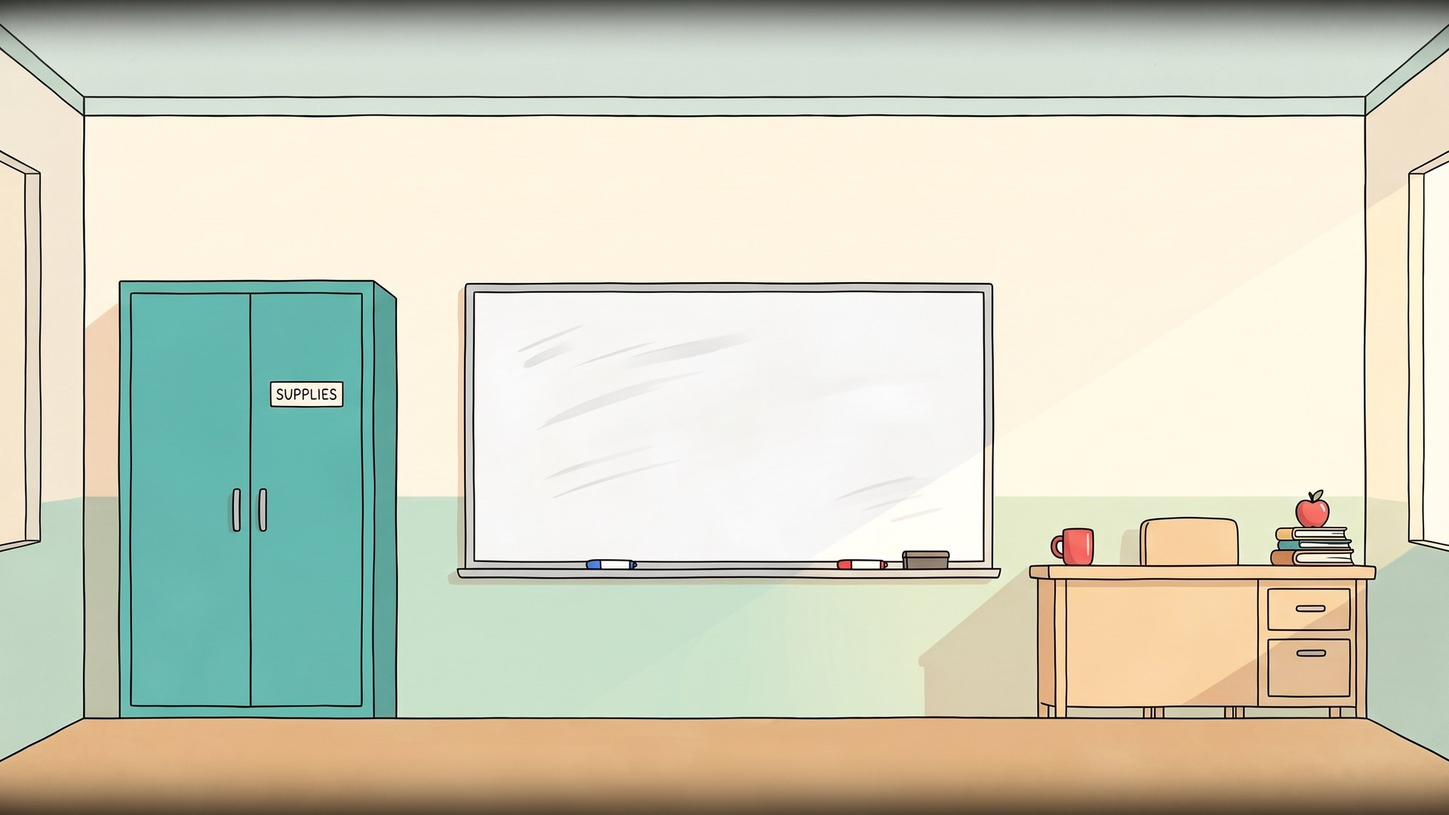
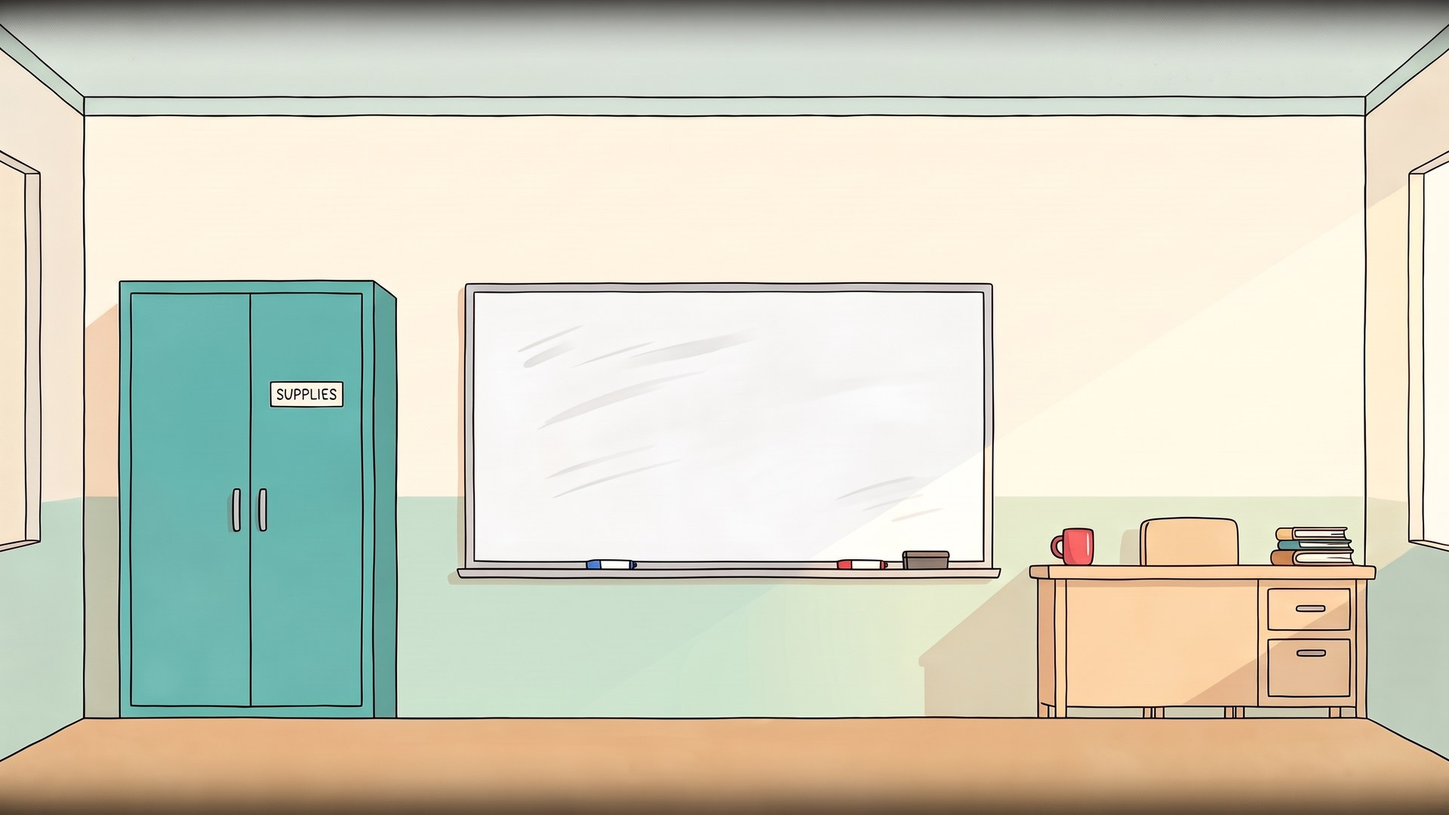
Classroom test: real cut-out animation and a composed tune
Moving things are now cut-outs on canvas layers over walls they have
been removed from: plants bend at the tip, the coat swings from its peg
with a lagging hem, the envelope lifts, Nutmeg squashes and hops, the
bag and apple rock, the lost property pops. The wall-patch shaking is
gone. The music is a composed sixteen-bar music-box waltz with melody,
chords and bass through a soft reverb, looped, with a TRACK slot for a
recorded piece. Notes updated.

Claude-Session: https://claude.ai/code/session_01EfdGHqbt9UMLzVmVXYp5s9

Changed region(s): [[0.875, 0.6111, 0.9375, 0.7028]]

diff --git a/next/landscape/index.html b/next/landscape/index.html
@@ -85,33 +85,8 @@ button{font:inherit;color:inherit;cursor:pointer}
 .back{position:absolute;right:calc(var(--u)*1.4);top:calc(var(--u)*1.2);width:calc(var(--u)*6);height:calc(var(--u)*6);border-radius:50%;border:0;background:rgba(20,26,40,.85);color:#fffaf0;display:grid;place-items:center;font-size:calc(var(--u)*3);z-index:2}
 .back:focus-visible{outline:calc(var(--u)*.4) solid var(--accent)}
 
-/* micro-animations: a patch of the wall picture is lifted and moved for a moment */
-.sprite{position:absolute;pointer-events:none;background-repeat:no-repeat;will-change:transform}
-.layer{position:absolute;pointer-events:none;display:block;will-change:transform}
-/* Tap feedback plays everywhere; on a reduce-motion device it is shorter and gentler rather than absent. */
-.sprite.sway,.layer.sway{transform-origin:50% 100%;animation:sway 1.8s ease-in-out}
-.sprite.swing{transform-origin:50% 0%;animation:swing 2s ease-in-out}
-.sprite.lift{animation:lift .9s ease-out}
-.sprite.hop{animation:hop .8s ease-out}
-.sprite.jiggle{animation:jiggle .7s ease-in-out}
-.sprite.rattle{animation:rattle .6s ease-in-out}
-.sprite.flutter{transform-origin:50% 0%;animation:flutter 1.3s ease-in-out}
-.sprite.bob{animation:bob 1s ease-in-out}
-@media (prefers-reduced-motion:reduce){
-  .sprite,.layer{animation-duration:.5s!important;animation-iteration-count:1!important}
-  .sprite.sway,.layer.sway{animation-name:sway-soft}
-  .sprite.swing{animation-name:swing-soft}
-  @keyframes sway-soft{0%,100%{transform:skewX(0)}50%{transform:skewX(-4deg)}}
-  @keyframes swing-soft{0%,100%{transform:rotate(0)}50%{transform:rotate(4deg)}}
-}
-@keyframes sway{0%,100%{transform:skewX(0)}20%{transform:skewX(-10deg)}50%{transform:skewX(8deg)}75%{transform:skewX(-4deg)}}
-@keyframes swing{0%,100%{transform:rotate(0)}20%{transform:rotate(12deg)}50%{transform:rotate(-9deg)}75%{transform:rotate(4deg)}}
-@keyframes lift{0%,100%{transform:translateY(0) rotate(0)}40%{transform:translateY(-25%) rotate(-6deg) scale(1.08)}}
-@keyframes hop{0%,100%{transform:translateY(0)}30%{transform:translateY(-30%)}55%{transform:translateY(0)}75%{transform:translateY(-12%)}}
-@keyframes jiggle{0%,100%{transform:rotate(0)}20%{transform:rotate(-14deg)}45%{transform:rotate(12deg)}70%{transform:rotate(-6deg)}}
-@keyframes rattle{0%,100%{transform:translateX(0)}20%{transform:translateX(-4%)}40%{transform:translateX(4%)}60%{transform:translateX(-2.5%)}80%{transform:translateX(2.5%)}}
-@keyframes flutter{0%,100%{transform:rotateX(0)}30%{transform:perspective(500px) rotateX(35deg)}65%{transform:perspective(500px) rotateX(-15deg)}}
-@keyframes bob{0%,100%{transform:translateY(0)}30%{transform:translateY(-18%)}60%{transform:translateY(4%)}}
+/* moving things are cut-outs on their own canvas layer, bent and swung in slices by script */
+.layer{position:absolute;pointer-events:none;display:block}
 .slot img{width:100%;height:100%;object-fit:contain;display:block}
 
 /* the inventory strip */
@@ -185,7 +160,7 @@ button{font:inherit;color:inherit;cursor:pointer}
 
 <script>
 'use strict';
-const BUILD = '2026-09-28f';
+const BUILD = '2026-09-28g';
 const $ = id => document.getElementById(id);
 
 /* ---------- sizing: the scene fills the screen in landscape, inventory strip under it ---------- */
@@ -200,57 +175,128 @@ addEventListener('resize', fit); fit();
 const VIEWS = ['c1','c2','c3','c4'];
 const HOTS = {
   c1:[
-    {id:'cupboard', l:8, t:34, w:19.5, h:54, label:'Supplies cupboard', anim:'rattle', patch:[8,33.5,19.5,55], sound:'knock'},
+    {id:'cupboard', l:8, t:34, w:20, h:54, label:'Supplies cupboard', sound:'knock'},
     {id:'board', l:32, t:34, w:37, h:37, label:'Whiteboard', sound:'tap'},
-    {id:'tdesk', l:71, t:62, w:24, h:27, label:"Mr Hollis's desk", anim:'jiggle', patch:[72,64.5,5,8], sound:'tap'}],
+    {id:'apple', l:87.5, t:57.5, w:6.5, h:8.5, label:'Apple on the books', anim:'wobble', layer:'apple', sound:'tap'},
+    {id:'tdesk', l:71, t:62, w:24, h:27, label:"Mr Hollis's desk", sound:'tap'}],
   c2:[
     {id:'window', l:30, t:17, w:40, h:31, label:'Classroom window', sound:'tap'},
-    {id:'beans', l:33, t:30, w:35, h:37, label:'Bean plants on the window sill', anim:'sway', layer:'plant', sound:'leaf'},
-    {id:'radiator', l:36, t:71, w:28, h:19, label:'Radiator', anim:'rattle', patch:[35.5,70.5,29,21], sound:'knock'}],
+    {id:'beans', l:33, t:30, w:35, h:37, label:'Bean plants on the window sill', anim:'bend', layer:'plant', sound:'leaf'},
+    {id:'radiator', l:36, t:71, w:28, h:19, label:'Radiator', sound:'knock'}],
   c3:[
-    {id:'bin', l:27, t:70, w:11, h:22, label:'Recycling bin', anim:'bob', patch:[27.5,69.5,10,8.5], sound:'knock'},
-    {id:'door', l:40, t:26, w:21, h:66, label:'Door to the corridor', anim:'jiggle', patch:[55,61,4,10], sound:'knock'},
-    {id:'pegs', l:62, t:46, w:28, h:27, label:'Coat pegs', anim:'swing', patch:[62.5,48,12,32], sound:'leaf'},
-    {id:'lost', l:75, t:74, w:15, h:18, label:'Lost property box', anim:'jiggle', patch:[75.5,73.5,14,19], sound:'paper'}],
+    {id:'bin', l:27.5, t:70, w:10, h:22, label:'Recycling bin', sound:'knock'},
+    {id:'door', l:40, t:26.5, w:20.5, h:66, label:'Door to the corridor', sound:'knock'},
+    {id:'pegs', l:61, t:46, w:29, h:36, label:'Coat pegs', anim:'swing', layer:'coat', sound:'leaf'},
+    {id:'lost', l:75, t:73, w:15, h:19, label:'Lost property box', anim:'pop', layer:'lost', sound:'paper'}],
   c4:[
-    {id:'rules', l:26, t:30, w:9, h:18, label:'Class rules', anim:'flutter', patch:[26,30,9,18], sound:'paper'},
-    {id:'timetable', l:38, t:25, w:24, h:30, label:'Class timetable', anim:'flutter', patch:[38,25,24,30], sound:'paper'},
-    {id:'clock', l:66.5, t:23.5, w:9.5, h:16, label:'Clock', anim:'jiggle', patch:[66.5,23.5,9.5,16], sound:'tick'},
-    {id:'bookshelf', l:20.5, t:59, w:18, h:30, label:'Bookshelf', anim:'rattle', patch:[21.5,60.5,15,12], sound:'knock'},
-    {id:'desk', l:41, t:62, w:18, h:32, label:"Mary's desk", sound:'tap'},
-    {id:'envelope', l:48.5, t:62, w:8.5, h:9.5, label:"Envelope on Mary's desk", key:true, anim:'lift', patch:[48.5,62.5,8.5,9], sound:'paper'},
-    {id:'bag', l:55.5, t:77, w:7.5, h:16, label:"Mary's schoolbag", anim:'jiggle', patch:[55,76.5,8,17], sound:'tap'},
-    {id:'hamster', l:66.5, t:52, w:11.5, h:11.5, label:'Nutmeg the hamster', anim:'hop', patch:[66.5,52,11.5,11.5], sound:'squeak'},
-    {id:'cabinet', l:66, t:64, w:12.5, h:25, label:'Filing cabinet', anim:'rattle', patch:[65.5,63.5,13,26], sound:'knock'}]
+    {id:'rules', l:26, t:30, w:8.5, h:18, label:'Class rules', sound:'paper'},
+    {id:'timetable', l:38.5, t:25, w:23, h:30, label:'Class timetable', sound:'paper'},
+    {id:'clock', l:67, t:23, w:8.5, h:16, label:'Clock', sound:'tick'},
+    {id:'bookshelf', l:21, t:59, w:17.5, h:29, label:'Bookshelf', sound:'knock'},
+    {id:'desk', l:41, t:61, w:18, h:33, label:"Mary's desk", sound:'tap'},
+    {id:'envelope', l:50, t:65, w:8, h:8.5, label:"Envelope on Mary's desk", key:true, anim:'lift', layer:'envelope', sound:'paper'},
+    {id:'bag', l:55.5, t:77, w:9, h:17, label:"Mary's schoolbag", anim:'wobble', layer:'backpack', sound:'tap'},
+    {id:'hamster', l:67, t:51.5, w:11, h:11, label:'Nutmeg the hamster', anim:'hop', layer:'hamster', sound:'squeak'},
+    {id:'cabinet', l:66, t:62.5, w:13, h:27, label:'Filing cabinet', sound:'knock'}]
 };
-/* Cut-out layers drawn over a wall: things that must move against a busy background (the plants against the window). */
+/* Cut-out layers drawn over each wall: the wall pictures have these things removed, so the cut-out is the only copy.
+   l,t,w,h are the cut-out's box in picture percentages; clipBottom hides anything below that line (things inside a box). */
 const LAYERS = {
+  c1:[{src:'../art/classroom/layer-apple.png', group:'apple', l:89.7, t:59.5, w:2.6, h:5.5}],
   c2:[
     {src:'../art/classroom/layer-plant1.png', group:'plant', l:34.4, t:54.0, w:5.6, h:12.5},
     {src:'../art/classroom/layer-plant2.png', group:'plant', l:42.4, t:49.5, w:5.5, h:17.0},
     {src:'../art/classroom/layer-plant3.png', group:'plant', l:51.0, t:36.1, w:6.8, h:30.4},
-    {src:'../art/classroom/layer-plant4.png', group:'plant', l:59.3, t:31.5, w:7.7, h:35.0}]
+    {src:'../art/classroom/layer-plant4.png', group:'plant', l:59.3, t:31.5, w:7.7, h:35.0}],
+  c3:[
+    {src:'../art/classroom/layer-coat.png', group:'coat', l:61.2, t:49.5, w:10.6, h:32},
+    {src:'../art/classroom/layer-lost.png', group:'lost', l:77.5, t:74.5, w:10, h:8.9, clipBottom:81}],
+  c4:[
+    {src:'../art/classroom/layer-envelope.png', group:'envelope', l:50.5, t:66.5, w:6.5, h:5.5, hideWhen:() => S.got.includes('envelope')},
+    {src:'../art/classroom/layer-hamster.png', group:'hamster', l:67.8, t:53.8, w:5.2, h:7.7},
+    {src:'../art/classroom/layer-backpack.png', group:'backpack', l:56.5, t:78, w:7, h:15.3}]
 };
-/* Lift a patch of the current wall and play it: the same picture, cropped and moved, so the room never changes underneath. */
-function animate(h){
-  if (!h.anim) return;
-  if (h.layer){
-    document.querySelectorAll(`.layer[data-group="${h.layer}"]`).forEach((el, i) => {
-      el.classList.remove(h.anim); void el.offsetWidth;
-      el.style.animationDelay = (i * 110) + 'ms'; el.classList.add(h.anim);
-      el.addEventListener('animationend', () => el.classList.remove(h.anim), {once:true});
-    });
-    return;
+
+/* ---------- the animator: each layer is a canvas; a tap starts a short, damped, organic movement ----------
+   bend: base fixed, tip moves most (plants). swing: hangs from the top, hem lags (a coat). lift: rises and settles (paper).
+   hop: squash, jump, land (a hamster). wobble: rocks on its base (a bag, an apple). pop: jumps up twice (things in a box). */
+const PAD_X = 0.45, PAD_Y = 0.7;               /* room around the cut-out for movement, as a share of its size */
+const layerState = new Map();                   /* canvas -> {img, L, anim, t0} */
+let animFrame = null;
+function makeLayer(L){
+  const c = document.createElement('canvas'); c.className = 'layer';
+  c.style.cssText = `left:${L.l - L.w*PAD_X}%;top:${L.t - L.h*PAD_Y}%;width:${L.w*(1+2*PAD_X)}%;height:${L.h*(1+PAD_Y+0.15)}%`;
+  c.dataset.group = L.group;
+  const img = new Image(); img.src = L.src;
+  const st = {img, L, anim:null, t0:0}; layerState.set(c, st);
+  img.onload = () => { c.width = Math.round(img.naturalWidth*(1+2*PAD_X)); c.height = Math.round(img.naturalHeight*(1+PAD_Y+0.15)); drawLayer(c, 0); };
+  if (img.complete && img.naturalWidth) img.onload();
+  return c;
+}
+function drawLayer(c, t){
+  const st = layerState.get(c); if (!st || !st.img.naturalWidth) return;
+  const {img, L, anim} = st, ctx = c.getContext('2d'), W = img.naturalWidth, H = img.naturalHeight, ox = W*PAD_X, oy = H*PAD_Y;
+  ctx.clearRect(0, 0, c.width, c.height);
+  ctx.save();
+  if (L.clipBottom != null){ const yClip = (L.clipBottom - (L.t - L.h*PAD_Y)) / (L.h*(1+PAD_Y+0.15)) * c.height; ctx.beginPath(); ctx.rect(0, 0, c.width, yClip); ctx.clip(); }
+  const damp = (f, tau) => Math.sin(2*Math.PI*f*t) * Math.exp(-t/tau);
+  if (!anim){ ctx.drawImage(img, ox, oy); ctx.restore(); return; }
+  const N = 40;
+  switch(anim){
+    case 'bend': { /* a plant: displacement grows with the square of the distance from the base, so the tip whips and the stem barely moves */
+      const A = W*0.32*damp(1.1, 0.75), lag = W*0.10*Math.sin(2*Math.PI*1.1*t - 1.2)*Math.exp(-t/0.75);
+      for (let i = 0; i < N; i++){ const y0 = i*H/N, u = 1 - (y0 + H/N/2)/H; const dx = A*u*u + lag*u*u*u; ctx.drawImage(img, 0, y0, W, H/N+1, ox+dx, oy+y0, W, H/N+1); }
+      break; }
+    case 'swing': { /* a coat on a peg: the whole thing pivots at the hook, and the hem trails a little behind */
+      const ang = 0.16*damp(0.75, 1.1), trail = 0.05*Math.sin(2*Math.PI*0.75*t - 1.0)*Math.exp(-t/1.1);
+      for (let i = 0; i < N; i++){ const y0 = i*H/N, v = (y0 + H/N/2)/H; const dx = Math.sin(ang)*y0 + Math.sin(trail)*y0*v; const sy = Math.cos(ang); ctx.drawImage(img, 0, y0, W, H/N+1, ox+dx, oy+y0*sy, W, H/N+1); }
+      break; }
+    case 'lift': { /* paper picked up a little and set down: rises with a tilt, settles */
+      const T = 0.9; if (t > T) { st.anim = null; ctx.drawImage(img, ox, oy); break; }
+      const k = Math.sin(Math.PI*t/T); const dy = -H*0.7*k, rot = -0.12*k;
+      ctx.translate(ox + W/2, oy + H + dy); ctx.rotate(rot); ctx.drawImage(img, -W/2, -H);
+      break; }
+    case 'hop': { /* squash, jump, land, once more smaller */
+      const hop = (t, T, h) => { if (t < 0 || t > T) return {dy:0, sx:1, sy:1};
+        if (t < T*0.18){ const k = t/(T*0.18); return {dy:0, sx:1+0.12*k, sy:1-0.16*k}; }
+        const u = (t - T*0.18)/(T*0.82); const arc = Math.sin(Math.PI*u); return {dy:-h*arc, sx:1-0.08*arc, sy:1+0.12*arc}; };
+      const a = hop(t, 0.55, H*0.75), b = hop(t-0.62, 0.42, H*0.35); const land = (t > 0.55 && t < 0.62) ? 0.85 : (t > 1.04 && t < 1.12 ? 0.9 : 1);
+      if (t > 1.25){ st.anim = null; ctx.drawImage(img, ox, oy); break; }
+      const dy = a.dy + b.dy, sx = a.sx*b.sx*(2-land), sy = a.sy*b.sy*land;
+      ctx.translate(ox + W/2, oy + H + dy); ctx.scale(sx, sy); ctx.drawImage(img, -W/2, -H);
+      break; }
+    case 'wobble': { /* rocks on its base and settles */
+      const ang = 0.14*damp(1.6, 0.6);
+      ctx.translate(ox + W/2, oy + H); ctx.rotate(ang); ctx.drawImage(img, -W/2, -H);
+      break; }
+    case 'pop': { /* things in a box jump up and drop back */
+      const T = 0.5; const t2 = t < T ? t : t - T*1.15; const k = (t2 >= 0 && t2 < T) ? Math.sin(Math.PI*t2/T) : 0; const second = t >= T*1.15;
+      if (t > T*2.3){ st.anim = null; ctx.drawImage(img, ox, oy); break; }
+      const dy = -H*(second ? 0.35 : 0.7)*k, rot = (second ? -0.06 : 0.1)*k;
+      ctx.translate(ox + W/2, oy + H + dy); ctx.rotate(rot); ctx.drawImage(img, -W/2, -H);
+      break; }
   }
-  if (!h.patch) return;
-  const v = VIEWS[S.view], patches = Array.isArray(h.patch[0]) ? h.patch : [h.patch];
-  patches.forEach(([l,t,w,ht], i) => {
-    const el = document.createElement('div'); el.className = 'sprite ' + h.anim;
-    el.style.cssText = `left:${l}%;top:${t}%;width:${w}%;height:${ht}%;background-image:url(${$('w-'+v).src});background-size:${10000/w}% ${10000/ht}%;background-position:${l/(100-w)*100}% ${t/(100-ht)*100}%;animation-delay:${i * 90}ms`;
-    $('hots').appendChild(el);
-    el.addEventListener('animationend', () => el.remove());
-    setTimeout(() => el.remove(), 3200);
+  ctx.restore();
+}
+function tick(){
+  let live = false; const now = performance.now();
+  layerState.forEach((st, c) => {
+    if (!st.anim || !c.isConnected) return;
+    const t = (now - st.t0)/1000;
+    if (t > 3.2) st.anim = null;
+    drawLayer(c, t); if (st.anim) live = true;
   });
+  animFrame = live ? requestAnimationFrame(tick) : null;
+}
+function animate(h){
+  if (!h.anim || !h.layer) return;
+  const reduce = matchMedia('(prefers-reduced-motion:reduce)').matches;
+  document.querySelectorAll(`.layer[data-group="${h.layer}"]`).forEach((c, i) => {
+    const st = layerState.get(c); if (!st) return;
+    st.anim = h.anim; st.t0 = performance.now() + (reduce ? 0 : i*110);
+    if (reduce) st.t0 -= 1200; /* start part-way through, so the movement is a short settle */
+  });
+  if (!animFrame) animFrame = requestAnimationFrame(tick);
 }
 
 /* ---------- text: notes, timetable, hints (same puzzle as the portrait draft) ---------- */
@@ -287,11 +333,8 @@ function render(){
   const v = VIEWS[S.view];
   VIEWS.forEach(k => $('w-'+k).classList.toggle('on', k === v));
   const hots = $('hots'); hots.innerHTML = '';
-  (LAYERS[v] || []).forEach(L => {
-    const im = document.createElement('img'); im.className = 'layer'; im.src = L.src; im.alt = ''; im.dataset.group = L.group;
-    im.style.cssText = `left:${L.l}%;top:${L.t}%;width:${L.w}%;height:${L.h}%`;
-    hots.appendChild(im);
-  });
+  layerState.clear();
+  (LAYERS[v] || []).forEach(L => { if (L.hideWhen && L.hideWhen()) return; hots.appendChild(makeLayer(L)); });
   HOTS[v].forEach(h => {
     if (h.id === 'envelope' && S.got.includes('envelope')) return;
     const b = document.createElement('button');
@@ -350,7 +393,7 @@ function openTimetable(){
 /* ---------- what happens when you tap things ---------- */
 function act(id){
   switch(id){
-    case 'envelope': S.got.push('envelope'); sfx('pickup'); setTimeout(() => { render(); openNote('envelope'); }, 450); say('An envelope from Mr Hollis! Tap it in the strip below any time to read it again.'); return;
+    case 'envelope': S.got.push('envelope'); sfx('pickup'); setTimeout(() => { render(); openNote('envelope'); }, 700); say('An envelope from Mr Hollis! Tap it in the strip below any time to read it again.'); return;
     case 'desk': say(S.got.includes('envelope') ? 'Your desk, cleared out for the summer. Just your pencil case.' : 'Your desk. There’s an envelope on it with your name.'); break;
     case 'hamster': hint(); return;
     case 'rules': openNote('rules'); say('The class rules. Rule 3 is about Nutmeg.'); return;
@@ -418,22 +461,60 @@ function sfx(kind){
     case 'pickup': [659, 784, 1047].forEach((f, i) => tone(f, 'triangle', .25, .01, .35, t + i * .09)); break;
   }
 }
-/* A slow music box: a soft two-note drone and, every couple of seconds, one gentle note from a pentatonic scale. */
+/* Background music: a composed sixteen-bar music-box waltz, played by a scheduler and looped.
+   To use a recorded track instead, set TRACK to its file (an mp3 that loops cleanly) and the tune below is not used. */
+const TRACK = null;
+const TEMPO = 84, BEATS_PER_BAR = 3;
+const TUNE = {
+  bars: ['C','Am','F','G','C','Am','F','G','Am','F','C','G','F','G','C','C'],
+  chords: {C:{bass:48, tones:[64,67]}, Am:{bass:45, tones:[60,64]}, F:{bass:53, tones:[60,65]}, G:{bass:55, tones:[62,67]}},
+  melody: [ /* [bar, beat, length in beats, midi note] */
+    [0,0,1,64],[0,1,1,67],[0,2,1,69],  [1,0,2,67],[1,2,1,64],  [2,0,1,65],[2,1,1,69],[2,2,1,72],  [3,0,2,71],[3,2,1,67],
+    [4,0,1,72],[4,1,.5,71],[4,1.5,.5,69],[4,2,1,67],  [5,0,1,69],[5,1,1,72],[5,2,1,76],  [6,0,2,74],[6,2,1,72],  [7,0,3,71],
+    [8,0,1,69],[8,1,1,71],[8,2,1,72],  [9,0,2,69],[9,2,1,65],  [10,0,1,67],[10,1,1,64],[10,2,1,60],  [11,0,2,62],[11,2,1,64],
+    [12,0,1,65],[12,1,1,69],[12,2,1,72],  [13,0,1,74],[13,1,1,71],[13,2,1,67],  [14,0,2,72],[14,2,1,67],  [15,0,3,72]]
+};
+const hz = m => 440*Math.pow(2, (m-69)/12);
+let musicBus = null;
+function musicGraph(){
+  const ac = AC, master = ac.createGain(); master.gain.value = 0.0001;
+  /* a soft room: a short synthetic reverb, mixed in behind the dry sound */
+  const conv = ac.createConvolver(), len = ac.sampleRate*1.8, ir = ac.createBuffer(2, len, ac.sampleRate);
+  for (let ch = 0; ch < 2; ch++){ const d = ir.getChannelData(ch); for (let i = 0; i < len; i++) d[i] = (Math.random()*2-1)*Math.pow(1-i/len, 2.6); }
+  conv.buffer = ir; const wet = ac.createGain(); wet.gain.value = .45; const dry = ac.createGain(); dry.gain.value = .8;
+  const inBus = ac.createGain(); inBus.connect(dry); inBus.connect(conv); conv.connect(wet); dry.connect(master); wet.connect(master); master.connect(ac.destination);
+  return {inBus, master};
+}
+/* a music-box note: a bright ping that rings and fades */
+function musicBox(midi, t, dur, vol){
+  const ac = AC, f = hz(midi), g = ac.createGain(); g.connect(musicBus.inBus);
+  g.gain.setValueAtTime(0.0001, t); g.gain.exponentialRampToValueAtTime(vol, t + 0.008); g.gain.exponentialRampToValueAtTime(vol*0.35, t + 0.25); g.gain.exponentialRampToValueAtTime(0.0001, t + Math.max(dur, 0.9) + 0.6);
+  [[1, 1], [2, .35], [3, .12], [5.4, .05]].forEach(([k, a]) => { const o = ac.createOscillator(), og = ac.createGain(); o.type = 'sine'; o.frequency.value = f*k; og.gain.value = a; o.connect(og); og.connect(g); o.start(t); o.stop(t + Math.max(dur, 0.9) + 0.7); });
+}
+function softNote(midi, t, dur, vol, type){
+  const ac = AC, o = ac.createOscillator(), g = ac.createGain(), fl = ac.createBiquadFilter(); o.type = type || 'triangle'; o.frequency.value = hz(midi);
+  fl.type = 'lowpass'; fl.frequency.value = 900; o.connect(fl); fl.connect(g); g.connect(musicBus.inBus);
+  g.gain.setValueAtTime(0.0001, t); g.gain.exponentialRampToValueAtTime(vol, t + 0.02); g.gain.exponentialRampToValueAtTime(0.0001, t + dur);
+  o.start(t); o.stop(t + dur + 0.05);
+}
 function startMusic(){
   if (music || !soundOn || !audio()) return;
-  const ac = AC, master = ac.createGain(); master.gain.value = 0.0001; master.connect(ac.destination);
-  master.gain.exponentialRampToValueAtTime(1, ac.currentTime + 3);
-  const pad = [261.63, 392, 523.25].map((f, i) => { const o = ac.createOscillator(), g = ac.createGain(); o.type = 'sine'; o.frequency.value = f; o.detune.value = i ? 5 : -5; g.gain.value = .06; o.connect(g); g.connect(master); o.start(); return o; });
-  const NOTES = [523.25, 587.33, 659.25, 783.99, 880, 1046.5], plucks = [];
-  let last = -1;
-  const timer = setInterval(() => {
-    if (ac.state !== 'running') return;
-    let i; do { i = Math.floor(Math.random() * NOTES.length); } while (i === last); last = i;
-    const o = ac.createOscillator(), g = ac.createGain(), f = ac.createBiquadFilter();
-    o.type = 'triangle'; o.frequency.value = NOTES[i]; f.type = 'lowpass'; f.frequency.value = 2400;
-    o.connect(f); f.connect(g); g.connect(master); env(g, ac.currentTime, .01, .22, 1.8 + Math.random()); o.start(); o.stop(ac.currentTime + 3);
-  }, 1800);
-  music = {stop(){ clearInterval(timer); master.gain.cancelScheduledValues(ac.currentTime); master.gain.setValueAtTime(master.gain.value, ac.currentTime); master.gain.exponentialRampToValueAtTime(.0001, ac.currentTime + .6); setTimeout(() => pad.forEach(o => o.stop()), 700); }};
+  if (TRACK){ const el = new Audio(TRACK); el.loop = true; el.volume = .6; el.play().catch(() => {}); music = {stop(){ el.pause(); }}; return; }
+  const ac = AC; musicBus = musicGraph();
+  musicBus.master.gain.exponentialRampToValueAtTime(1, ac.currentTime + 2.5);
+  const beat = 60/TEMPO, loopBeats = TUNE.bars.length*BEATS_PER_BAR, start = ac.currentTime + 0.3;
+  let nextBeat = 0;
+  const schedule = () => {
+    while (start + nextBeat*beat < ac.currentTime + 0.6){
+      const b = nextBeat % loopBeats, bar = Math.floor(b/BEATS_PER_BAR), inBar = b % BEATS_PER_BAR, t = start + nextBeat*beat, ch = TUNE.chords[TUNE.bars[bar]];
+      if (inBar === 0) softNote(ch.bass, t, beat*2.6, .16);
+      else ch.tones.forEach((m, i) => musicBox(m, t + i*0.012, beat, .045));
+      TUNE.melody.filter(n => n[0] === bar && Math.floor(n[1]) === inBar).forEach(n => musicBox(n[3], t + (n[1]-inBar)*beat, n[2]*beat, .19));
+      nextBeat++;
+    }
+  };
+  schedule(); const timer = setInterval(() => { if (ac.state === 'running') schedule(); }, 120);
+  music = {stop(){ clearInterval(timer); const g = musicBus.master.gain; g.cancelScheduledValues(ac.currentTime); g.setValueAtTime(g.value, ac.currentTime); g.exponentialRampToValueAtTime(.0001, ac.currentTime + .8); setTimeout(() => musicBus.master.disconnect(), 900); }};
 }
 function stopMusic(){ if (music){ music.stop(); music = null; } }
 function setSound(on){

diff --git a/CLAUDE.md b/CLAUDE.md
@@ -35,7 +35,7 @@ The owner is a non-technical but AI-savvy builder working from a Chromebook. Exp
 - `icon-192.png`, `icon-512.png` — moth icon (also used as maskable).
 - `next/index.html` — the children's version being built, not yet what players get. It opens on the choose-a-child screen (with the fiction notice under "About this game"). All nine Part 1 stages are playable: Mary, Elliot and Zaina each have last day of school, packing day and the flight. The engine is in this file, with Mary's school and packing stages; the rest live in `next/stages/`. Each stage is one object (for example `STAGE_SCHOOL`, or the `stage` passed to `registerStage`) with its `rooms` (each room's views in turning order), `doors` (door → room and view you arrive at), `start`, `items`, `uses`, `fresh` state, `draw`, `act`, `hints`, `hinter`, optional `hintStyle:'point'` (for Zaina: the moth turns to the target, pulses it and says one short line) and `ending`; the engine handles turning, doors, the inventory, hints and endings. `STORYLINES` lists each child's three stages; saves are per child in localStorage (`mothhouse.next.v1`). Each view is a `<g class="view" id="v-…">` in the one SVG; hotspot `data-id`s must be unique across all stages (school ones start with `s_`, Elliot's `e_`, Zaina's `z_`, the flight's `fl_`). A hotspot with `data-stage="…"` only shows in that stage, which is how the shared flat and cabin carry different children's things. Close-ups are overlays inside `.stage`. Keep hotspots away from the bottom corners, where the turn arrows sit. It doesn't register the service worker. When the owner approves it, it replaces the live game.
 - `next/stages/mary-flight.js`, `elliot.js`, `zaina.js` — stage plugins: `registerStage(key, {css, views, closeups, boxes, stage, setup})`. The engine injects `views` into the SVG, `closeups` before `#endUI`, merges `boxes` into `BOXES`, then runs `setup()` after the bookcases are drawn (use it to add hotspots to shared views).
-- `next/landscape/index.html` — the landscape engine, first test room: Mary's classroom drawn as the generated pictures in `next/art/classroom/`. A 16:9 scene, small turn arrows halfway up each side, the inventory as ten slots under the scene, close-ups brought forward over the blurred room, a "turn your phone" screen in portrait. Tap targets are picture percentages in `HOTS`; a hotspot's `patch` (one or several picture rectangles) is lifted off the wall picture and moved with its `anim` when tapped, and `sound` names the effect. Sounds and the music-box background are made in the browser with Web Audio (`sfx`, `startMusic`), start after the first tap, and switch off from the menu. Inventory icons are pictures in `next/art/classroom/item-*.png` (generated on white, background keyed out). The puzzle text is the same as the portrait draft. Only the classroom is built; the door says so. Saves in localStorage (`mothhouse.landscape.v1`).
+- `next/landscape/index.html` — the landscape engine, first test room: Mary's classroom drawn as the generated pictures in `next/art/classroom/`. A 16:9 scene, small turn arrows halfway up each side, the inventory as ten slots under the scene, close-ups brought forward over the blurred room, a "turn your phone" screen in portrait. Tap targets are picture percentages in `HOTS`; `sound` names the tap effect and `anim` + `layer` name a movement and the cut-out group it moves. Moving things are cut-outs in `LAYERS` (per view: `layer-*.png`, placed in picture percentages, drawn on a canvas each; the wall pictures have them removed). The animator (`drawLayer`) bends, swings, lifts, hops, wobbles or pops a cut-out in slices for a moment. Sounds and the composed music-box waltz (`TUNE`, `startMusic`) are made in the browser with Web Audio, start after the first tap, and switch off from the menu; set `TRACK` to an mp3 to use a recorded piece instead. Inventory icons are pictures in `next/art/classroom/item-*.png` (generated on white, background keyed out). The puzzle text is the same as the portrait draft. Only the classroom is built; the door says so. Saves in localStorage (`mothhouse.landscape.v1`).
 - `next/art/classroom/` — the four walls of Mary's classroom as generated pictures (Gemini image model, `gemini-3-pro-image`, 28 Sept 2026): the `landscape-` files follow the owner's brief (16:9, clean and sparse); the earlier portrait ones are kept for comparison. Prompts in `PROMPTS.md`. The key is in the environment as `GEMINI_API_KEY`; the script that made them is described there. Not wired into the game.
 - `STORY.md` — the story plan: characters, places, every scene with its puzzle map, rules for every chapter, open decisions.
 - `.well-known/assetlinks.json`, `.nojekyll` — Android app verification (see Launch status).

diff --git a/STORY.md b/STORY.md
@@ -60,9 +60,9 @@ The owner's rule for every room in the game:
 4. **Close-ups bring the object towards the player** while the room stays visible behind it, softened, so the sense of place is never lost.
 5. **Characters have expressive faces** (surprise, worry, delight) drawn in the same flat-ink style. For children: warm, never gory, no blood, nothing frightening.
 6. **Small arrows at the left and right edges** of the scene, halfway up, show where to tap to turn. The middle of each side edge stays clear for them.
-7. **Micro-animations.** Not everything, but the things a child would poke move when tapped: a plant sways, a coat swings, a hamster hops, a poster flutters. (Owner's feedback on the classroom test, 28 Sept 2026.)
+7. **Micro-animations.** Not everything, but the things a child would poke move when tapped: a plant bends, a coat swings, a hamster hops. (Owner's feedback on the classroom test, 28 Sept 2026.) **Rule:** anything that moves is its own cut-out with a transparent edge, drawn over a wall it has been removed from, and it moves organically (a plant bends more at the tip, a coat's hem lags, a hamster squashes and stretches). Never shift a rectangle of the background: it looks like a shaking sticker.
 8. **Inventory pictures** are drawn to the same standard as the walls, never small vector icons.
-9. **Sound and music** while playing: soft tap and paper sounds, and a gentle background track, starting after the first tap as browsers require, with an on/off switch. Every sound clue is also shown. The current track is a music box made in the browser; a composed track can replace it later.
+9. **Sound and music** while playing: soft tap and paper sounds, and a gentle background track, starting after the first tap as browsers require, with an on/off switch. Every sound clue is also shown. Music must be a real tune with a melody, chords and bass, never random notes. The current track is a composed sixteen-bar music-box waltz played in the browser; a recorded track can replace it by setting `TRACK` in the engine.
 10. Inspiration is the feel of modern point-and-click escape games in general. Never copy their characters, rooms, names or imagery; the prompts for generated art describe qualities, never other games.
 
 Pictures can be generated (see `next/art/`, prompts in `PROMPTS.md`) or drawn in code; the same rules apply to both. The rules below from the earlier version still hold except where the brief above changes them.

diff --git a/next/art/classroom/PROMPTS.md b/next/art/classroom/PROMPTS.md
@@ -2,6 +2,10 @@
 
 Made with Gemini (`gemini-3-pro-image`, 2K) through the API key in the environment (`GEMINI_API_KEY`). Each wall is one `generateContent` call with `responseModalities: ["TEXT","IMAGE"]` and `imageConfig: {aspectRatio, imageSize}`. The first wall is generated alone; the others get a crop of it (with its objects mostly cut off) as a style reference, so the walls feel like one room without copying each other's furniture. Never name other games in a prompt; describe qualities.
 
+## Cut-outs and cleaned walls (evening, 28 Sept 2026)
+
+Moving things are separate pictures: `layer-plant1..4.png`, `layer-coat.png`, `layer-lost.png`, `layer-envelope.png`, `layer-hamster.png`, `layer-backpack.png`, `layer-apple.png`. Each was made by giving Gemini a crop of the object from the wall with "Redraw exactly the … from the attached crop, alone, on a pure flat white background, same style, nothing else", then flood-filling the white away from the edges (so white inside the object stays). The walls were then edited with the same model ("Edit the attached picture: remove …; keep absolutely everything else exactly as it is"), and the `landscape-*.jpg` files now carry those cleaned versions. The edited wall shifts a little, so cut-out positions were measured again on the new wall with a 5% grid. Inventory icons (`item-*.png`) are made the same way.
+
 ## Landscape set (owner's brief, 28 Sept 2026 afternoon): `landscape-*.jpg`, 16:9, saved at 1920×1080
 
 ### Shared style text
